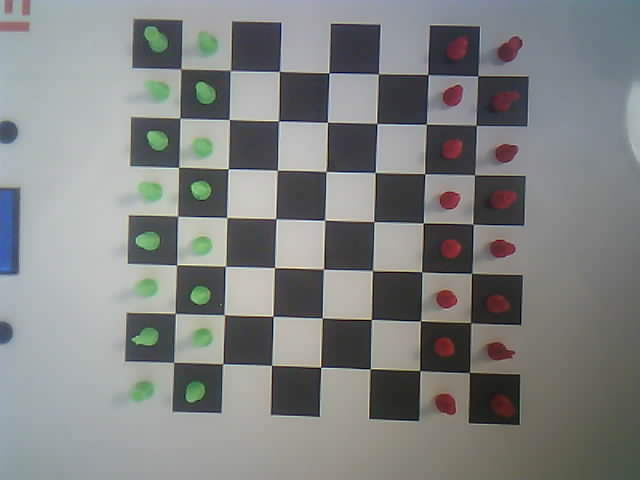
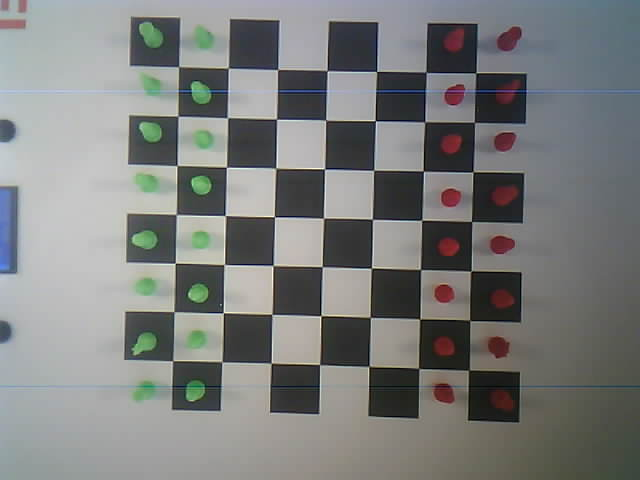
final version

diff --git a/Main Firmware/WizardsChess.py b/Main Firmware/WizardsChess.py
@@ -60,12 +60,15 @@ class WizardsChess:
                     #input("press when played")
                     else :
                         player_move = ComputerVision.get_player_move_from_camera(self.chess_ai.get_board())
-                        (is_move_performed,is_capture) = self.chess_ai.play_move(player_move)
-                        print(player_move,is_move_performed)
-                        if(not(is_move_performed)):
-                            self.user_interactor.display_try_again()
+                        if (player_move == ""):
+                            self.user_interactor.display_no_move()
                         else:
-                            self.user_interactor.display_move(str(player_move))
+                            (is_move_performed,is_capture) = self.chess_ai.play_move(player_move)
+                            print(player_move,is_move_performed)
+                            if(not(is_move_performed)):
+                                self.user_interactor.display_try_again()
+                            else:
+                                self.user_interactor.display_move(str(player_move))
             else:
                 (ai_move,is_capture) = self.chess_ai.play_move_auto()
                 self.perform_move_on_board(str(ai_move),is_capture)

diff --git a/Main Firmware/ComputerVision.py b/Main Firmware/ComputerVision.py
@@ -42,13 +42,15 @@ class ComputerVision:
         diff = [i for i in range(len(previous_string)) if previous_string[i] != next_string[i]]
         print(previous_string)
         print(next_string)
-
+        if (len(diff) != 2):
+            return ""
         if previous_string[diff[0]] == '.':
             diff = list(reversed(diff))
         print(diff)
         initial_position = str(chr((diff[0]%8) + 97) + str(abs(diff[0]//8 - 8)))
         final_position = str(chr((diff[1]%8) + 97) + str(abs(diff[1]//8 - 8)))
         return initial_position + final_position
+        
     #returns the move object from the camera
     def get_player_move_from_camera(board):
         # Take 3 capture because of the delay

diff --git a/Main Firmware/ChessAI.py b/Main Firmware/ChessAI.py
@@ -4,7 +4,7 @@ import chess.engine
 class ChessAI:
 
     def __init__(self):
-        self.engine = chess.engine.SimpleEngine.popen_uci(r'/usr/games/stockfish')
+        self.engine = chess.engine.SimpleEngine.popen_uci(r'./stockfish_15_x64_avx2.exe')
         self.board = chess.Board()
     #Plays automatically a move on the board, and returns the move that was made
     def play_move_auto(self):

diff --git a/Main Firmware/UserInteractor.py b/Main Firmware/UserInteractor.py
@@ -34,6 +34,9 @@ class UserInteractor:
         else:
             display("Great! Please", "wait for the AI")
         return reset
+
+    def display_no_move(self):
+        display("No move done","try again!")
     
     def display_try_again(self):
         display("Move not legal","choose other move")
